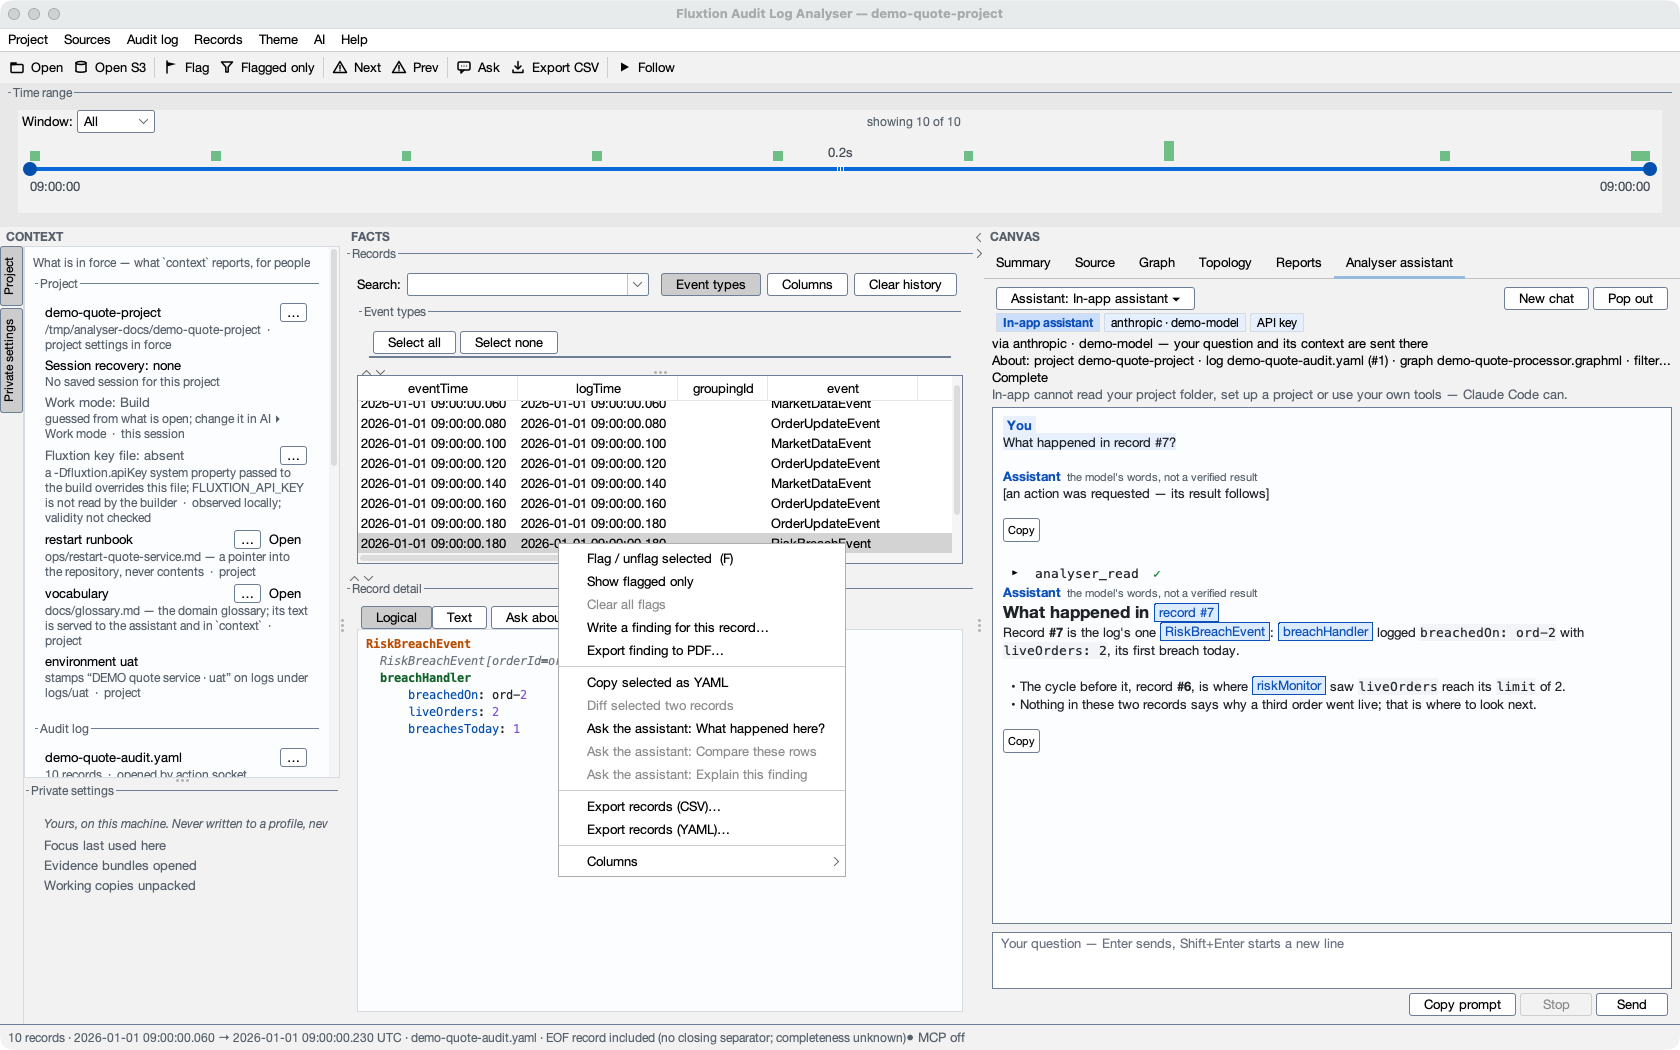
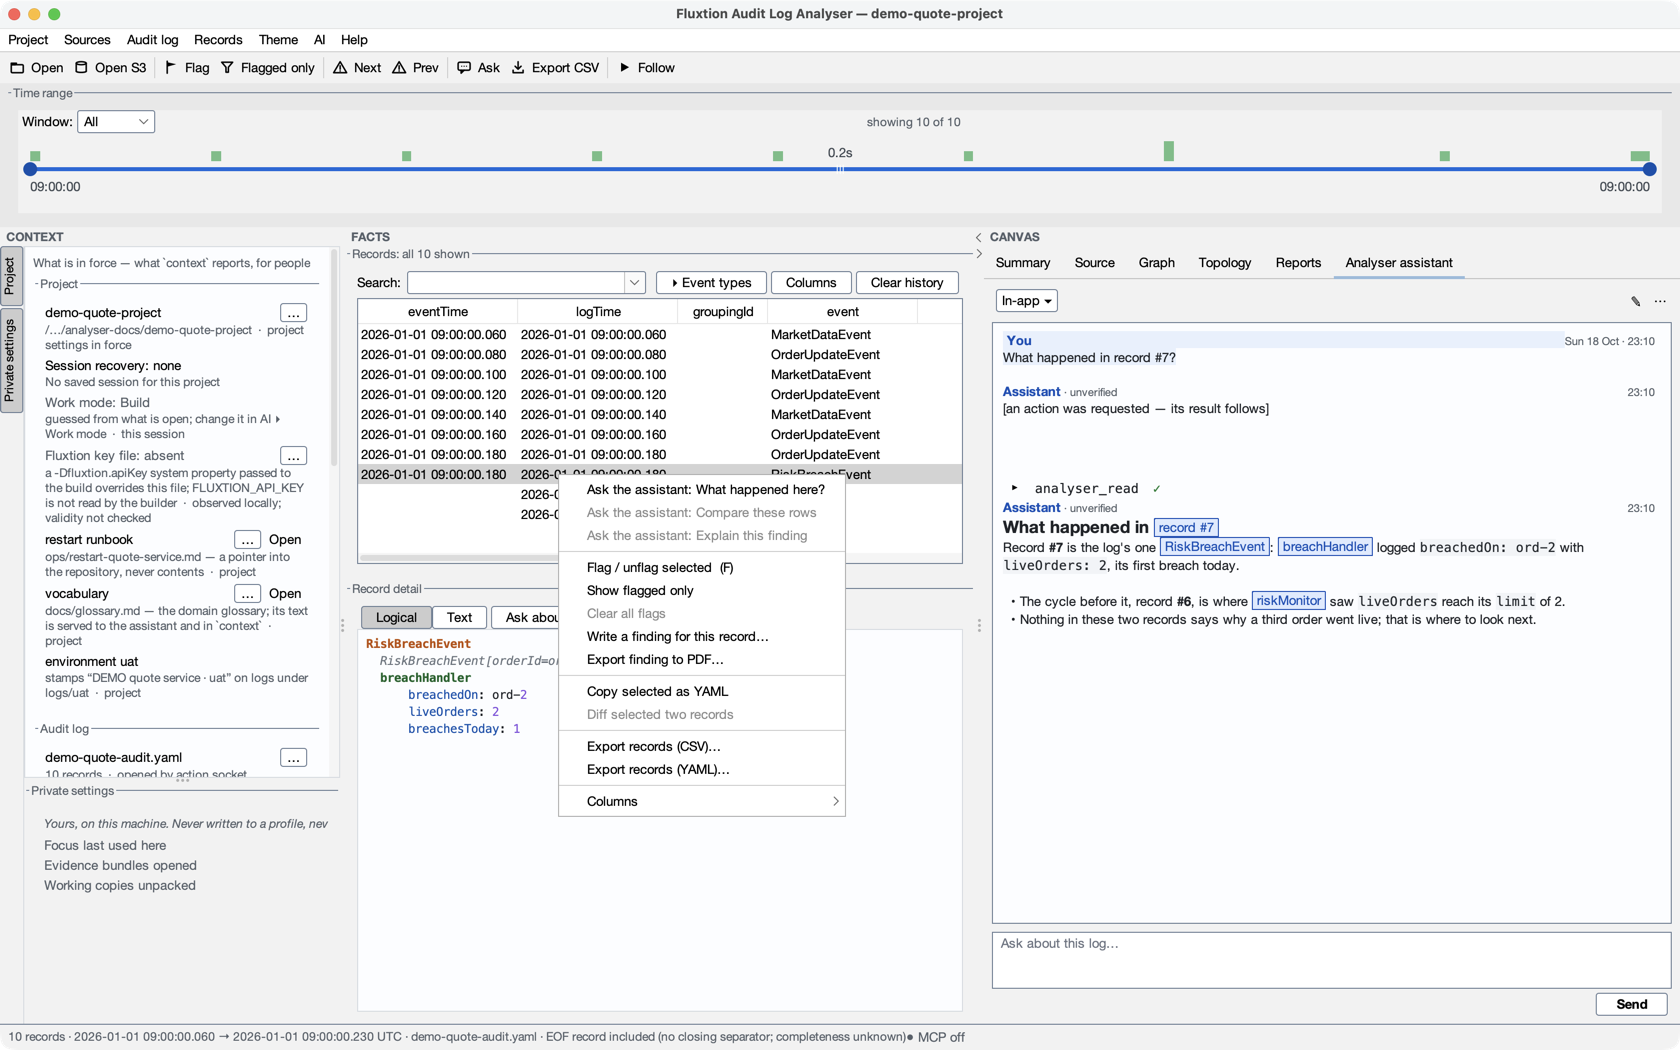
docs: regenerate the M74/M77/M78 screenshots; release notes draft
start-page, settings-assistant, assistant-claude-code, assistant-in-app,
ask-menu, permission-dialog and proposal-review were taken before M77-4
removed the profile cards and M78 quietened the panel. Regenerated with
tools/capture-docs.py (--start-page, --m74, --setup-ai) under its
isolated home, downscaled to the committed 1x size. The five Set up AI and
quick-switch shots the assets README names are added. Every visible string
read: demo names and the capture root only.

docs/handoff/release_notes_draft_2026_10_18.md: the 2026-10-18 release
for the customer's developers, from CHANGELOG [Unreleased].

Claude-Session: https://claude.ai/code/session_01Bhwkr5MmFDGufDuKy1iYWF

diff --git a/docs/handoff/release_notes_draft_2026_10_18.md b/docs/handoff/release_notes_draft_2026_10_18.md
@@ -1,0 +1,103 @@
+# Release notes — draft, 2026-10-18
+
+For the developers who use the analyser day to day, and for anyone who scripts it. The source of truth is
+`CHANGELOG.md ▸ [Unreleased]`; every line below is a shortened form of an entry there. Where the two differ, the
+CHANGELOG is right.
+
+## What you will notice first
+
+1. **Turning on external MCP/REST access now asks first.** From every door — *Set up AI*, the AI menu's checkbox,
+   *Settings ▸ Assistant* (on save) and *Connect an AI client* — one confirmation, with *Cancel* the default.
+   Turning it off is still one click, and `--rest` still turns it on at start-up without asking. A shared settings
+   file can no longer turn it on: it is set on each machine only. **If your team turned access on through a shared
+   settings file, tick it once on each machine.**
+2. **The profile cards are gone. The assistant's header has a quick switch instead.** The header control is one
+   short chip — **Safe ▾**, **◆ Full ▾**, **In-app ▾**, **Off ▾**, or **Set up AI…** while nothing is set up. It
+   opens a menu: **Safe analysis · ◆ Full Claude Code… · In-app assistant · Off · Set up AI…**. A row applies at
+   once. ◆ Full Claude Code asks for its confirmation first, and a row that cannot work as it stands opens the
+   *Set up AI* screen that finishes it.
+3. **Set up AI…** is the one place to choose how AI works with the analyser: **No AI**, **your own AI client**,
+   **Claude inside the analyser** (Safe analysis or Full Claude Code) or **both**. It checks that Claude Code is
+   installed and signed in, without sending anything. For your own client it walks through turning on access,
+   registering the analyser and a live check that your client really reached this window. It also draws a small
+   *Where data goes* picture for the option you pick. *AI ▸ Connect an AI client…* and the start page's *Connect an
+   assistant* block are replaced by it. The old dialog is still reachable under *More options…*.
+4. **The assistant panel is quieter.** The docked panel shows the mode chip, **✎** (New chat), **⋯**, the
+   conversation and the composer. The model, billing, folder, limits and operator lines are now in
+   **⋯ ▸ About this session…**. The state is one or two words on the chip (*answering…*, *needs you*). A refusal or
+   an exit is one banner with **Restart**, plus **Details** when something needs attention. Every answer is headed
+   *Claude · unverified*.
+5. **Hidden filters are shown on screen and in `context.hidden`.** When a filter hides records, the Records title
+   says *3 of 21 shown · 18 hidden*. A line under it names each filter with its own undo, and the *Event types*
+   toggle shows a badge. An empty table says why. A search set by an assistant shows in the Search box. The
+   assistant is told too: `context` carries a new **`hidden`** field,
+   `{count, byFilter: [{filter, hides, excludedTypes?}]}`.
+
+## For scripts and integrations: additive only
+
+- **The verbs and the REST endpoint file (`~/.fluxtion-analyser/rest-endpoint`) are unchanged.** Nothing was
+  removed or renamed, and no existing reply changed shape.
+- **`context.hidden`**: new, additive (above).
+- **`context.project.starters`**: new, additive. It lists the starter templates: id, name, description, how the
+  graph is authored, where it runs, and whether its build needs a Fluxtion key.
+- **`source {…, text: {from, to}}` or `{…, text: {around?, context?}}`**: an optional parameter that returns source
+  lines as data. It is read-only, limited to authorised source roots, and capped at 200 lines and 32 KB a call,
+  with any cut stated. Without `text`, `source` and its reply are unchanged.
+- **`graph {restore}`**: an optional parameter. `{restore: true}` lists the chart bin, and `{restore: "name or id"}`
+  restores one. Deleted and replaced chart definitions are now recoverable.
+- **The `fluxtion-analyser` MCP bridge sends extra request headers**: `X-Analyser-Client` (the client's own name,
+  ASCII, shown as its claim) and `X-Analyser-Probe` on Set up AI's check calls, so a check is never counted as your
+  client. They are informational. A client or proxy that forwards headers needs no change.
+- **Two refusal messages changed their words. Their status codes did not change**: the hosted-only listener's 403,
+  and the bridge's -32001 *not running* error. Key on the code, never on the text.
+- **The analyser no longer prints the full REST token to its console.** Read it from the endpoint file, and check
+  its `pid`. *Copy prompt* includes the token only when you tick *Include my local REST token*.
+- **A request nested more than 512 levels deep** is refused with 400 *malformed JSON*. Before, the connection closed
+  with no reply.
+
+## New
+
+- **The starter path: build a new application with Claude.** *Build a new application with me* on the start page
+  reads the starter catalogue and drafts your question. Claude Code can propose a starter (`propose {kind: starter}`);
+  only your **Apply** downloads it, into a new or empty folder you choose. The analyser then does the following:
+  - writes the project's skills, each checked against a pinned digest;
+  - asks one review, with every row at No except the Spring design's folder;
+  - opens the project and its Spring design;
+  - offers the first build's graph when it appears;
+  - offers to restart Claude Code in the new project with a draft placed. Nothing is sent until you press Send.
+
+  *Project ▸ New project from template…* runs the same steps. Switching projects part-way cancels the remaining
+  steps, and the downloaded files stay.
+- **Claude Code in the Assistant tab**, off by default. **Safe analysis** reads your evidence and asks before every
+  call that changes what is open or writes a file. **Full Claude Code** is a separate opt-in that runs your own
+  Claude Code, with its settings, tools and permission rules. Approvals are asked in the analyser, with *Deny* the
+  default and no *Always allow*. Settings changes that can wait are offered as a restart.
+- **The start page asks *What would you like to do?*** There is a numbered list, a box for your own words and one
+  button, and the demo needs no AI, key or network. Prompt packs (one Markdown file dropped on the page) replace the
+  list for the session.
+- **One list of questions for the assistant** on the records, charts, topology and time slider: *What happened
+  here?*, *Explain this point* and others. They are added to the composer and sent only when you press Send.
+- **Each turn shows its time**, and **↑** recalls your previous questions.
+- **Recording a Claude Code conversation into a walk**, and example entries in prompt packs pinned to a commit.
+- **The docs site is organised by task**, and redirects keep the old addresses working.
+
+## Fixed (selection)
+
+- A Java source spotlight asked right after `goto` or `topology {select, source: true}` no longer answers
+  *superseded*. It also lights beside the graph on the Topology tab.
+- The sample project finds its own event processor and reaches its sources.
+- An approval no longer times out unseen: its window is brought to the front.
+- A proposal waiting for review is always visible, even with the assistant behind another tab.
+- Full Claude Code's report permission ends with the project, the destination or your own edit of the report.
+- A very large `source {text}` window returns the capped lines with a notice instead of an empty success.
+- The Event types checklist and the Records table always keep at least three rows each.
+
+## Security
+
+- **Source roots** can never expose your home folder or a credential folder, for every caller.
+- **No assistant profile is local-only**, Safe analysis included. What you ask, and the evidence Claude reads, goes
+  to the model provider.
+- **Text the analyser did not write is shown as its characters, never as HTML**, and nothing is fetched.
+- **Invisible "smuggled" characters** are refused in prompt packs and dropped from drafted questions.
+
+See `CHANGELOG.md ▸ [Unreleased]` for the full list and the exact wording.
